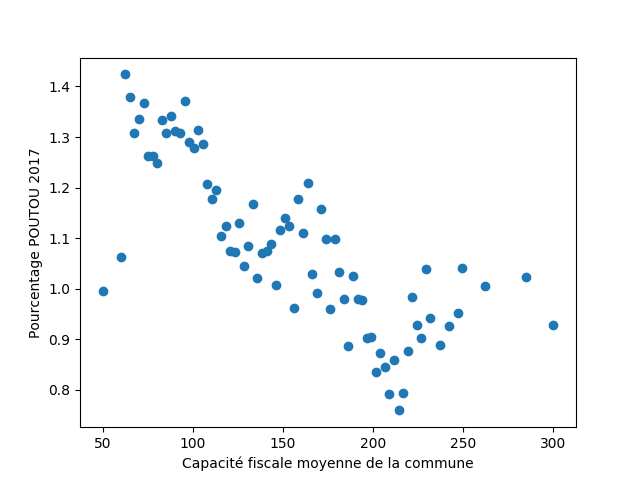
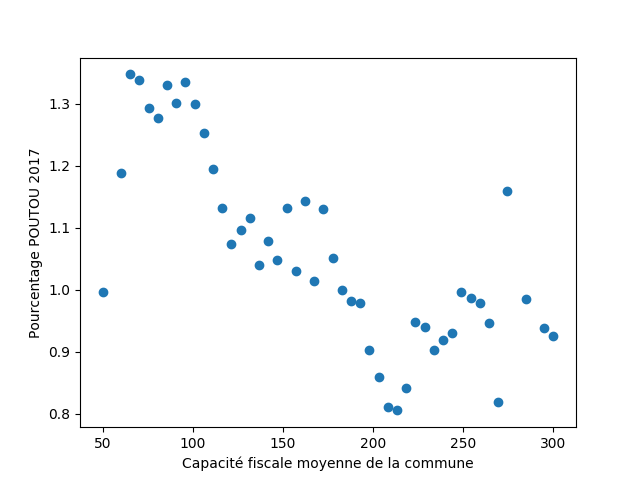
Ajout des paramètres utilisés pour les exemples

diff --git a/README.md b/README.md
@@ -12,14 +12,72 @@ Le script a été majoritairement fait pour le fun pour mettre en vis-à-vis des
 
 ## Exemples
 
+```python
+candidat = "MACRON"
+en_fonction_de = "INSCRITS"
+abscisse = "Nombre d'inscrits dans la commune (échelle log.)"
+x_start = 10
+x_end = 100000
+x_scale_log = True
+precision = 50
+min_occ = 15
+```
 ![Pourcentage Macron en fonction du nombre d'inscrits dans la commune](Exemples-PNG/Nb-Inscrits-Macron.png)
 
+---
+
+```python
+candidat = "LE PEN"
+en_fonction_de = "INSCRITS"
+abscisse = "Nombre d'inscrits dans la commune (échelle log.)"
+x_start = 10
+x_end = 100000
+x_scale_log = True
+precision = 50
+min_occ = 15
+```
 ![Pourcentage Le Pen en fonction du nombre d'inscrits dans la commune](Exemples-PNG/Nb-Inscrits-Le-Pen.png)
 
+---
+
+```python
+candidat = "FILLON"
+en_fonction_de = "PHARMACIES"
+abscisse = "Nombre de pharmacies dans la commune"
+x_start = 0
+x_end = 8
+x_scale_log = False
+precision = 4
+min_occ = 15
+```
 ![Pourcentage Fillon en fonction du nombre de pharmacies dans la commune](Exemples-PNG/Nb-Pharmacies-Fillon.png)
 
+---
+
+```python
+candidat = "MÉLENCHON"
+en_fonction_de = "PROPRIETAIRES"
+abscisse = "Pourcentage de propriétaires dans la commune"
+x_start = 10
+x_end = 50
+x_scale_log = False
+precision = 30
+min_occ = 15
+```
 ![Pourcentage Mélenchon en fonction du pourcentage de propriétaires dans la commune](Exemples-PNG/Nb-Proprietaires-Mélenchon.png)
 
+---
+
+```python
+candidat = "POUTOU"
+en_fonction_de = "CAPACITE_FISCALE"
+abscisse = "Capacité fiscale moyenne de la commune"
+x_start = 50
+x_end = 300
+x_scale_log = False
+precision = 50
+min_occ = 15
+```
 ![Pourcentage Poutou en fonction de la capacité fiscale moyenne de la commune](Exemples-PNG/Capacite-Fiscale-Poutou.png)
 
 ## Système requis
